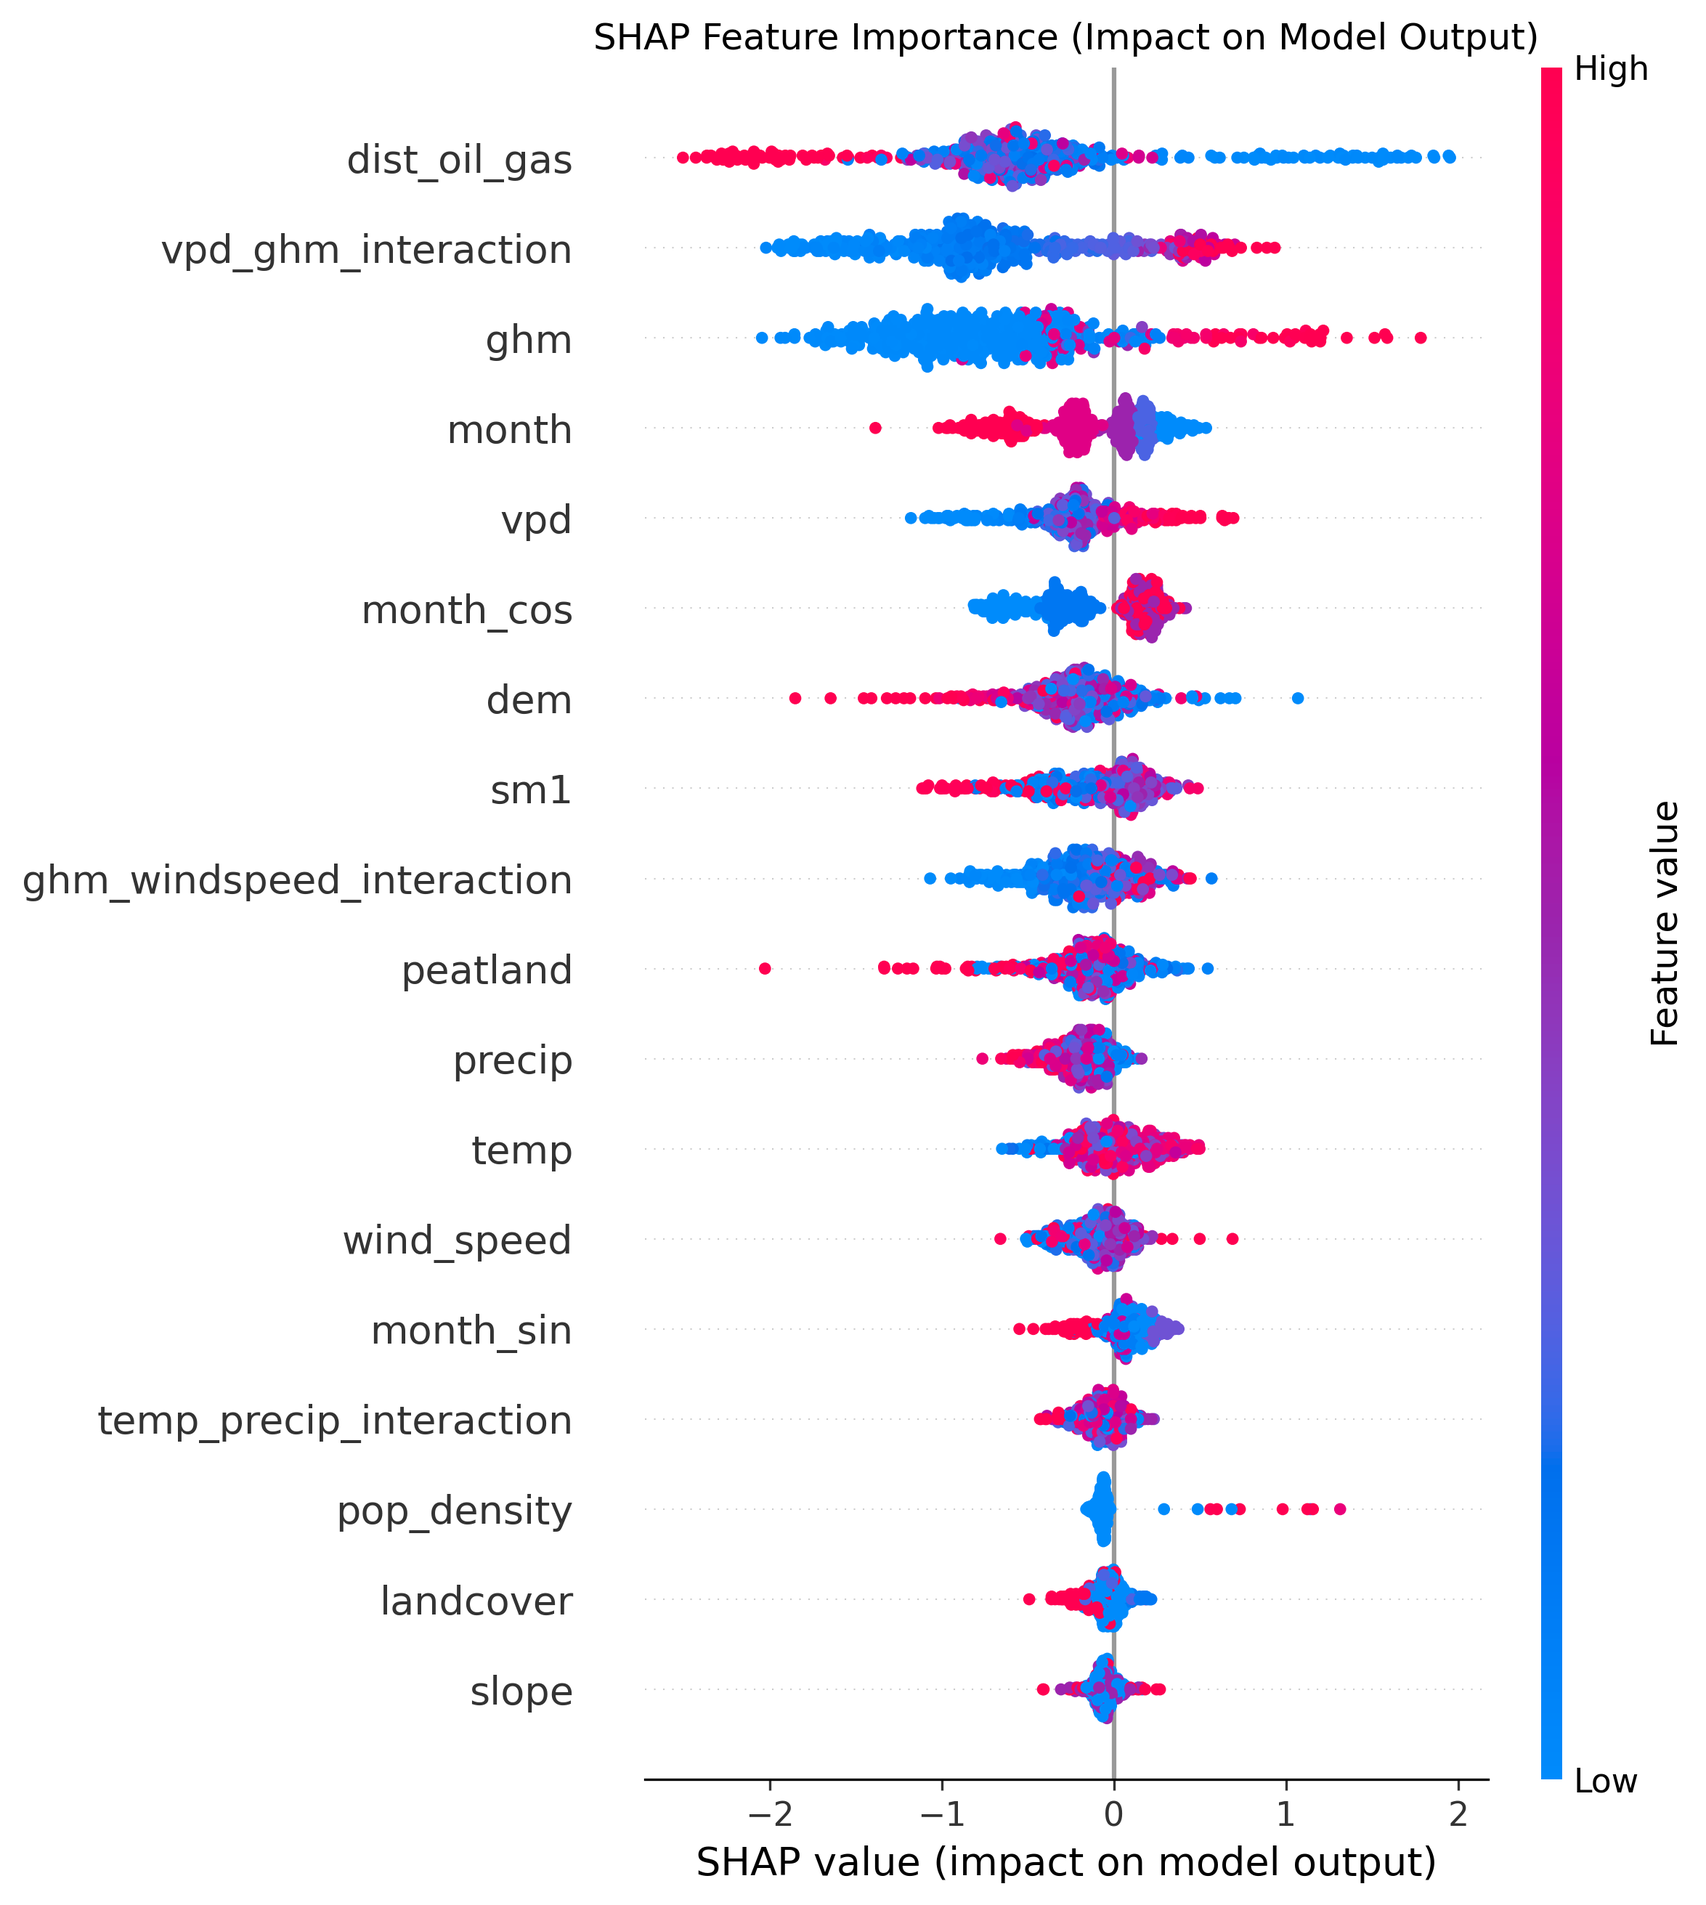
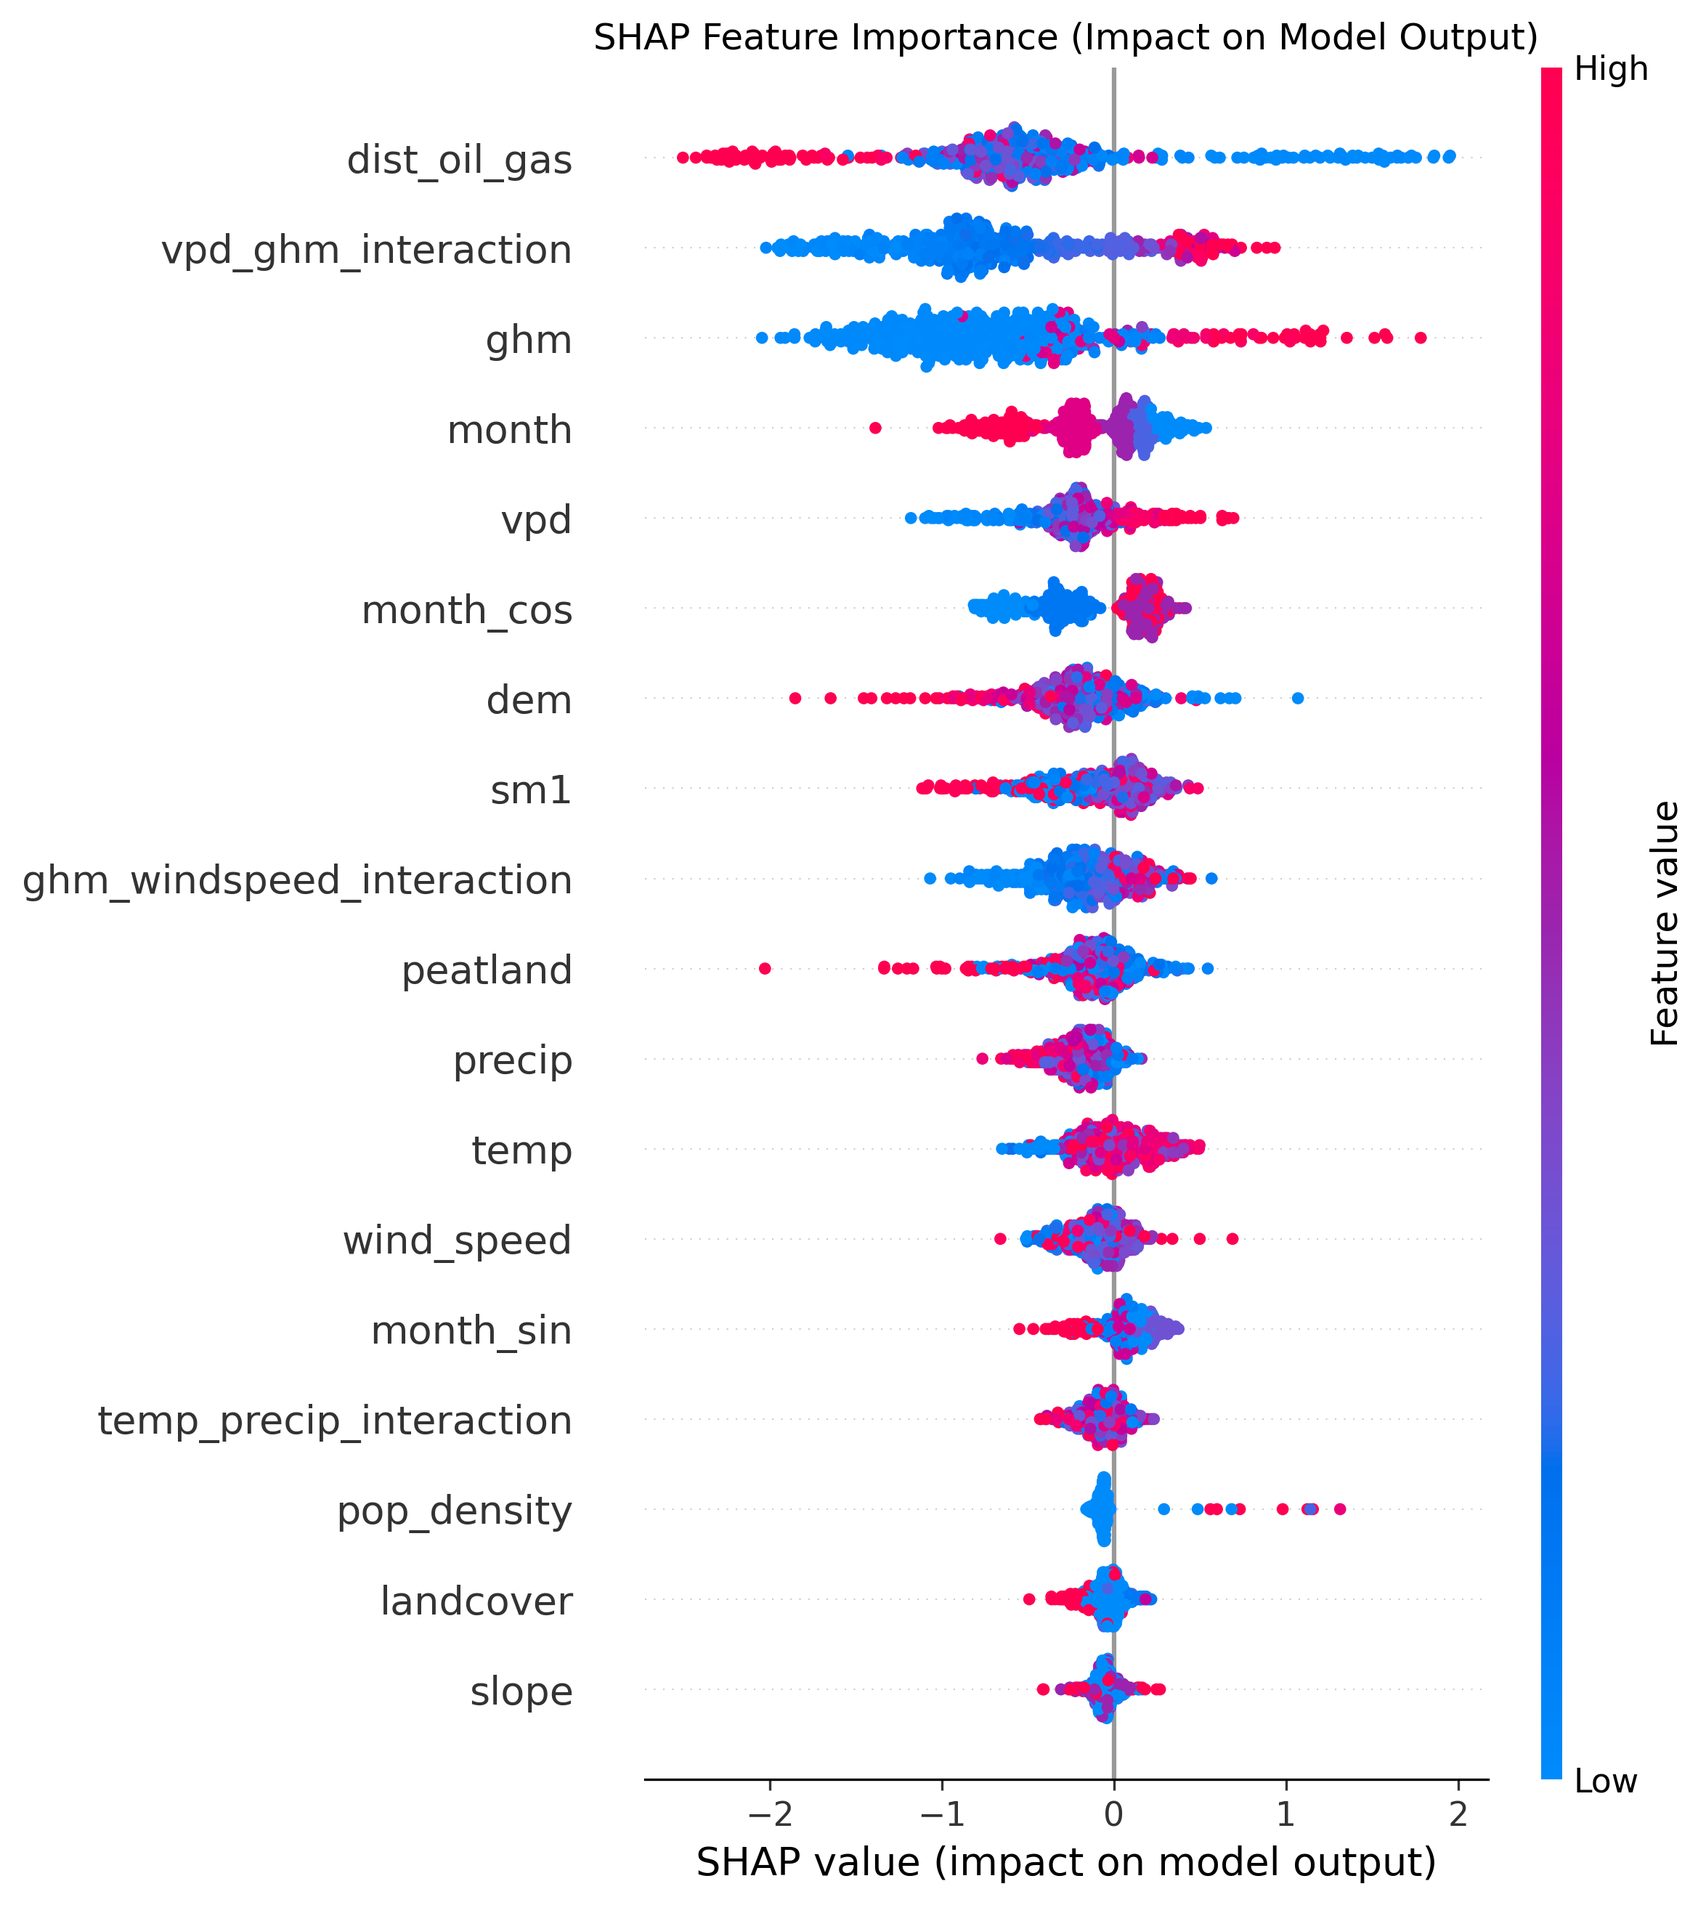
fix pdp

diff --git a/src/models/train.py b/src/models/train.py
@@ -11,11 +11,15 @@ from sklearn.metrics import (
 )
 from sklearn.linear_model import LogisticRegression
 from sklearn.inspection import PartialDependenceDisplay
-from src.config import PROCESSED_DIR
+from src.config import PROCESSED_DIR, Config
 import matplotlib.pyplot as plt
 import shap
 import numpy as np
+import geopandas as gpd
 from sklearn.preprocessing import StandardScaler
+import matplotlib.colors as colors
+
+cfg = Config()
 
 def train_model(model, X_train, y_train):
     model.fit(X_train, y_train)
@@ -83,58 +87,74 @@ def generate_evaluation_artifacts(
     plt.savefig(output_filename, dpi=300)
     
 def generate_spatial_reliability_map(
-    X_test, y_test, probs, optimal_threshold, original_df
+    original_df, resolution=0.05, n_classes=4
 ):  
-    x_coords = original_df.loc[X_test.index, 'x'].values
-    y_coords = original_df.loc[X_test.index, 'y'].values
-    results_df = pd.DataFrame({
-        'x': x_coords,
-        'y': y_coords,
-        'probability': probs,
-        'observed_fire': y_test.values
-    })
+    df = original_df.copy()
+    df = df[df['year'] == 2022]
+    df['x_grid'] = (df['x'] / resolution).round() * resolution
+    df['y_grid'] = (df['y'] / resolution).round() * resolution
     
-    fig, ax = plt.subplots(figsize=(14, 8), facecolor='white')
-    
-    sc = ax.scatter(
-        results_df['x'], 
-        results_df['y'], 
-        c=results_df['probability'], 
-        cmap='YlOrRd', 
-        s=15, 
-        alpha=0.4,
-        edgecolors='none',
-        label='Predicted Probability Surface'
+    grid = df.groupby(['x_grid', 'y_grid']).agg({
+        'fire_probability': 'median',
+        'fire': 'max'
+    }).reset_index()
+        
+    try:
+        grid['class'], _ = pd.qcut(
+            grid['fire_probability'],
+            n_classes,
+            labels=False,
+            retbins=True,
+            duplicates='drop'
+        )
+    except ValueError:
+        grid['prob_rank'] = grid['fire_probability'].rank(method='first')
+        grid['class'], _ = pd.qcut(
+            grid['prob_rank'],
+            n_classes,
+            labels=False,
+            retbins=True,
+            duplicates='drop'
+        )
+    colors = plt.cm.plasma(np.linspace(0, 1, n_classes))
+    grid['color'] = [colors[c] for c in grid['class']]
+
+    gdf = gpd.GeoDataFrame(
+        grid,
+        geometry=gpd.points_from_xy(grid.x_grid, grid.y_grid),
+        crs="EPSG:4326"
     )
+    if hasattr(cfg, 'khmao_geojson') and cfg.khmao_geojson:
+        boundary = gpd.read_file(cfg.khmao_geojson)
+        gdf = gdf.clip(boundary)
+
+    fig, ax = plt.subplots(figsize=(14, 8))
+    gdf.plot(ax=ax, color=gdf['color'], edgecolor='none', markersize=20, alpha=0.7)
+    fires = df[df['fire'] == 1]
+    ax.scatter(fires['x'], fires['y'],
+               marker='x', s=80, color='red', linewidths=2,
+               label='Observed fires (test set)')
     
-    observed_fires = results_df[results_df['observed_fire'] == 1]
-    ax.scatter(
-        observed_fires['x'],
-        observed_fires['y'], 
-        color='#000000',
-        marker='+', 
-        s=40, 
-        linewidths=1.5,
-        label='Observed Fire Hotspot (Ground Truth)'
-    )
+    from matplotlib.lines import Line2D
+    legend_elements = []
+    for i in range(n_classes):
+        label = f'Risk {i+1}'
+        legend_elements.append(Line2D([0], [0], marker='o', color='w',
+                                       label=label, markerfacecolor=colors[i],
+                                       markersize=8))
+    legend_elements.append(Line2D([0], [0], marker='x', color='red',
+                                  label='Observed fires', markersize=8))
+    ax.legend(handles=legend_elements, loc='upper right')
     
-    cbar = plt.colorbar(sc, ax=ax, fraction=0.046, pad=0.04)
-    cbar.set_label('Algorithm Ignition Probability', fontsize=12)
-    cbar.ax.axhline(optimal_threshold, color='black', linestyle='--', linewidth=2)
-    cbar.ax.text(1.2, optimal_threshold, f'Threshold\n({optimal_threshold:.4f})', 
-                 va='center', ha='left', fontsize=10)
-    
-    ax.set_title('Spatial Reliability Analysis: Predicted Risk vs. Observed Ignitions', fontsize=16, pad=15)
+    ax.set_title('Spatial Reliability: Predicted Risk (Quantile Classes) vs. Observed Ignitions', fontsize= 16)   
     ax.set_xlabel('Longitude', fontsize=12)
     ax.set_ylabel('Latitude', fontsize=12)
     
-    handles, labels = ax.get_legend_handles_labels()
-    ax.legend(handles[-2:], labels[-2:], loc='upper right', framealpha=0.9)
-    
+    ax.legend(loc='upper right')
     ax.grid(True, linestyle='--', alpha=0.3)
     
     plt.tight_layout()
-    output_filename = "spatial_reliability_map.png"
+    output_filename = Path(PROCESSED_DIR) / "spatial_reliability_map.png"
     plt.savefig(output_filename, dpi=300)
     print(f"Spatial reliability map successfully exported as {output_filename}")
 
@@ -149,6 +169,7 @@ def generate_partial_dependence_plots(model, X_test, sample_size=10000, random_s
         X_eval = X_test.sample(n=sample_size, random_state=random_state)
     else:
         X_eval = X_test
+        
     features_to_plot = [
         'ghm', 
         'vpd', 
@@ -170,12 +191,24 @@ def generate_partial_dependence_plots(model, X_test, sample_size=10000, random_s
     fig.suptitle('Partial Dependence: Infrastructure Proximity vs. Synergistic Climate Effects', fontsize=16)
     plt.subplots_adjust(top=0.9)  
     
-    output_filename = "pdp_infrastructure_climate.png"
+    output_filename = Path(PROCESSED_DIR) / "pdp_infrastructure_climate.png"
     plt.savefig(output_filename, dpi=300, bbox_inches='tight')
     plt.close()
     
     print(f"Partial Dependence Plots saved successfully to {output_filename}")
     
+def generate_forecast(
+    model, 
+    df, 
+    features
+):
+    X = df[features]
+    probs = model.predict_proba(X)[:, 1]
+    
+    df = df.copy()
+    df["fire_probability"] = probs
+    return df
+
 def evaluate_model(model, X_test, y_test, features):
     probs = model.predict_proba(X_test)[:, 1]
     precisions, recalls, thresholds = precision_recall_curve(
@@ -221,18 +254,6 @@ def evaluate_model(model, X_test, y_test, features):
     print(importance)
     
     return optimal_threshold
-
-def generate_forecast(
-    model, 
-    df, 
-    features
-):
-    X = df[features]
-    probs = model.predict_proba(X)[:, 1]
-    
-    df = df.copy()
-    df["fire_probability"] = probs
-    return df
 
 def explain_model_with_shap(model, X_test):
     if hasattr(model, "best_estimator_"):

diff --git a/src/pipelines/wildfire_pipeline.py b/src/pipelines/wildfire_pipeline.py
@@ -173,7 +173,7 @@ class WildfirePipeline:
         self.base_model.fit(X_train, y_train)
         calibrator = CalibratedClassifierCV(
             estimator=self.base_model,
-            method='sigmoid',
+            method='isotonic',
             cv=3
         )
         calibrator.fit(X_val, y_val)
@@ -190,24 +190,17 @@ class WildfirePipeline:
         test_preds = (test_probs >= optimal_threshold).astype(int)        
         
         self._evaluate_by_year_type(test, test_probs, optimal_threshold)
-        tr.generate_evaluation_artifacts(
-            model=self.model,
-            X_train=X_train,
-            y_train=y_train,
-            X_test=X_test,
-            y_test=y_test,
-            optimal_threshold=optimal_threshold,
-            primary_probs=test_probs,          
-            primary_preds=test_preds
-        )
-        
-        tr.generate_spatial_reliability_map(
-            X_test=X_test,
-            y_test=y_test,
-            probs=test_probs,
-            optimal_threshold=optimal_threshold,
-            original_df=test    
-        )
+        # tr.generate_evaluation_artifacts(
+        #     model=self.model,
+        #     X_train=X_train,
+        #     y_train=y_train,
+        #     X_test=X_test,
+        #     y_test=y_test,
+        #     optimal_threshold=optimal_threshold,
+        #     primary_probs=test_probs,          
+        #     primary_preds=test_preds
+        # )
+    
         test_full = test.copy()
         test_full["fire_probability"] = test_probs
         
@@ -218,7 +211,7 @@ class WildfirePipeline:
             "roc_auc": roc_auc_score(y_test, test_preds),
             "threshold": optimal_threshold
         }
-        return self.model, test_full
+        return self.model, test_full, optimal_threshold
     
     def _evaluate_by_year_type(self, test_df, probs, threshold):
         extreme = test_df[test_df['is_extreme_year'] == 1]
@@ -270,7 +263,20 @@ class WildfirePipeline:
     def run(self):
         df = self.load_data()
         self.build_features()
-        model, test = self.train(df)
+        model, test, optimal_threshold = self.train(df)
+        df_full = df.copy() 
+        X_full = df_full[self.features]
+
+        probs = model.predict_proba(X_full)[:, 1]
+        print(f"Probability array shape: {probs.shape}")
+
+        df_full['fire_probability'] = probs
+
+        if 'fire_probability' not in df_full.columns:
+            print("ERROR: fire_probability column was not added!")
+        else:
+            print("fire_probability column added successfully.")
+            print(df_full[['valid_time', 'fire_probability', 'x', 'y']].head())
         
         options = questionary.checkbox(
             "Select options:",
@@ -278,6 +284,7 @@ class WildfirePipeline:
                 "SHAP Explanation Bar & Summary",
                 "Visualize Risk-map",
                 "Generate Partial Dependence Plots (PDP)",
+                "Spatial Reliability Map",
                 "Save the map in TIFF format for QGIS",
                 "Create Bivarite Map GHM & VPD",
                 "Animate Risk Over Time"
@@ -285,27 +292,20 @@ class WildfirePipeline:
         ).ask()
         
         if "Visualize Risk-map" in options:
-            self.visualize(model, test)
+            self.visualize(model.base_model, df_full)
         if "SHAP Explanation Bar & Summary" in options:
             tr.explain_model_with_shap(model.base_model, test[self.features])
         if "Generate Partial Dependence Plots (PDP)" in options:
-            tr.generate_partial_dependence_plots(model, test[self.features])
+            tr.generate_partial_dependence_plots(model.base_model, test[self.features])
         if "Save the map in TIFF format for QGIS" in options:
             self.save(test)
         if "Create Bivarite Map GHM & VPD" in options:
-            maps.create_bivariate_map(test)
+            maps.create_bivariate_map(df_full, var1='vpd', var2='ghm')
+        if "Spatial Reliability Map" in options:
+            tr.generate_spatial_reliability_map(
+                original_df=df_full,
+                resolution=0.05,
+                n_classes=4
+            )
         if "Animate Risk Over Time" in options:
-            df_full = df.copy() 
-            X_full = df_full[self.features]
-
-            probs = model.predict_proba(X_full)[:, 1]
-            print(f"Probability array shape: {probs.shape}")
-
-            df_full['fire_probability'] = probs
-
-            if 'fire_probability' not in df_full.columns:
-                print("ERROR: fire_probability column was not added!")
-            else:
-                print("fire_probability column added successfully.")
-                print(df_full[['valid_time', 'fire_probability', 'x', 'y']].head())
             maps.animate_risk_over_time(df_full, years=None, output_file=cfg.risk_map_animation_output)

diff --git a/src/visualization/maps.py b/src/visualization/maps.py
@@ -178,17 +178,23 @@ def create_bivariate_map(
     ].copy()
     
     if subset.empty:
-        print("⚠ No data for July 2022. Using the entire dataset instead.")
+        print("No data for July 2022. Using the entire dataset instead.")
         subset = df.copy()
 
-    print("⚙ Converting grid points to spatial geometries...")
-    geometry = [Point(xy) for xy in zip(subset['x'], subset['y'])]
-    gdf = gpd.GeoDataFrame(subset, geometry=geometry, crs="EPSG:4326")
+    print("Converting grid points to spatial geometries...")
+    res = 0.05
+    subset['x_grid'] = (subset['x'] / res).round() * res
+    subset['y_grid'] = (subset['y'] / res).round() * res
     
-    gdf['vpd_class'] = pd.qcut(gdf[var1].rank(method='first'), 3, labels=[0, 1, 2])
-    gdf['ghm_class'] = pd.qcut(gdf[var2].rank(method='first'), 3, labels=[0, 1, 2])
+    grid = subset.groupby(['x_grid', 'y_grid']).agg({
+        var1: 'mean',
+        var2: 'mean'
+    }).reset_index()
     
-    gdf['bivariate_class'] = gdf['vpd_class'].astype(str) + gdf['ghm_class'].astype(str)
+    
+    grid[f'{var1}_class'] = pd.qcut(grid[var1].rank(method='first'), 3, labels=[0, 1, 2])
+    grid[f'{var2}_class'] = pd.qcut(grid[var2].rank(method='first'), 3, labels=[0, 1, 2])
+    grid['bivariate_class'] = grid[f'{var1}_class'].astype(str) + grid[f'{var2}_class'].astype(str)
     
     color_dict = {
         '00': '#e8e8e8', '10': '#e4acac', '20': '#c85a5a',
@@ -196,11 +202,18 @@ def create_bivariate_map(
         '02': '#64acbe', '12': '#627f8c', '22': '#574249' 
     }
     
-    gdf['color'] = gdf['bivariate_class'].map(color_dict)
+    grid['color'] = grid['bivariate_class'].map(color_dict)
+    gdf = gpd.GeoDataFrame(
+        grid, 
+        geometry=gpd.points_from_xy(grid.x_grid, grid.y_grid), 
+        crs="EPSG:4326"
+    )
+    
+    boundary = gpd.read_file(cfg.khmao_geojson)
+    gdf = gdf.clip(boundary)
     
     fig, ax = plt.subplots(1, 1, figsize=(12, 10))
-    gdf.plot(color=gdf['color'], edgecolor='none', ax=ax)
-    
+    gdf.plot(color=gdf['color'], edgecolor='none', ax=ax)    
     ax.set_title("Synergistic Wildfire Drivers: VPD and Human Modification", fontsize=16)
     ax.set_axis_off()
     

diff --git a/src/process_manager.py b/src/process_manager.py
@@ -110,9 +110,16 @@ def wildfire_pipeline():
             pipeline = WildfirePipeline(
                 factory, 
                 use_lag, 
-                tune=True
+                tune=True,
+                use_smote=True,
+                downsample_ratio=3,
+                smote_ratio=0.5
             ) 
         pipeline.run()
+        results[group] = pipeline.get_metrics()
+    
+    df_table = pd.DataFrame(results).T
+    print(df_table)
 
 def temperature_pipeline():
     pipeline = TemperaturePipeline()

diff --git a/readme.md b/readme.md
@@ -1,3 +1,13 @@
 # Wildfire predictive model
-Animation risk from 2016 to 2025 (May to September)
+##### Paritial Dependence Plots (PDP)
+![](data/processed/pdp_infrastructure_climate.png)
+
+##### Spatial Reliability Map for 2022 (May - September)
+![](data/processed/spatial_reliability_map.png)
+
+##### Animation risk from 2016 to 2025 (May to September)
 ![](data/processed/animation_risk_map.gif)
+
+##### SHAP Summary & Bar
+![](data/processed/shap/shap_bar_plot.png)
+![](data/processed/shap/shap_summary_plot.png)
